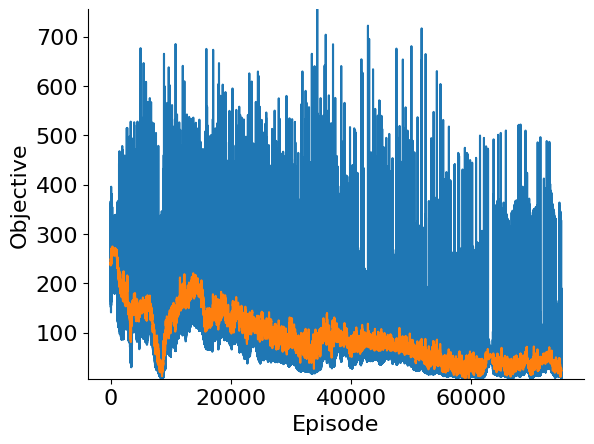
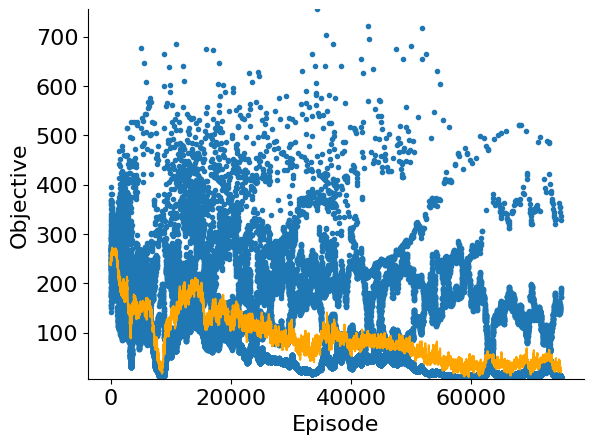
minor plot tweaks

Changed region(s): [[0.1818, 0.0293, 0.9697, 0.8784], [0.3333, 0.4685, 0.3636, 0.527]]

diff --git a/src/plotting.py b/src/plotting.py
@@ -333,7 +333,7 @@ def load_metrics(path):
 
 
 def objective_plot():
-    window_size = 50
+    window_size = 75
     for folder in AGENT_FOLDERS:
         folder = os.path.join(RESULTS, folder)
         _, ax = plt.subplots()
@@ -342,8 +342,10 @@ def objective_plot():
             objectives, np.ones(window_size) / window_size, mode="valid"
         )
         x = np.arange(len(objectives))
-        ax.plot(x, objectives, label="objective")
-        ax.plot(x[: -window_size + 1], mean_objectives, label="running mean")
+        ax.scatter(x, objectives, label="objective", marker='.')
+        ax.plot(
+            x[: -window_size + 1], mean_objectives, label="running mean", color="orange"
+        )
         make_plot_nice(
             ax,
             "Episode",
@@ -558,9 +560,9 @@ def acc_plot():
         xs = np.arange(len(baselines))
         ax.set_xticks(xs)
         ax.set_xticklabels(groupinfo["names"])
-        ax.scatter(xs, baselines, label="baseline", marker='+')
-        ax.scatter(xs, agents, label="agent", marker='x')
-        ax.scatter(xs, bests, label="best", marker='^')
+        ax.scatter(xs, baselines, label="baseline", marker="+")
+        ax.scatter(xs, agents, label="agent", marker="x")
+        ax.scatter(xs, bests, label="best", marker="^")
 
         make_plot_nice(
             ax,
